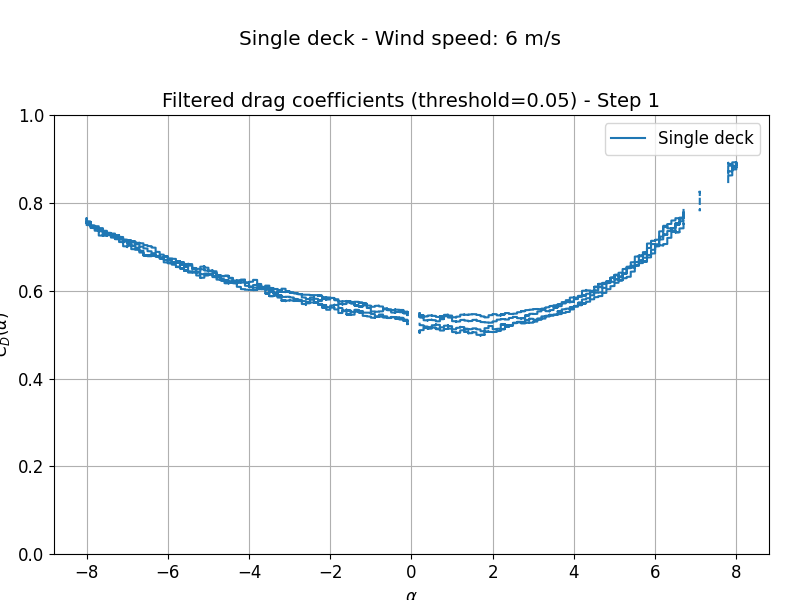
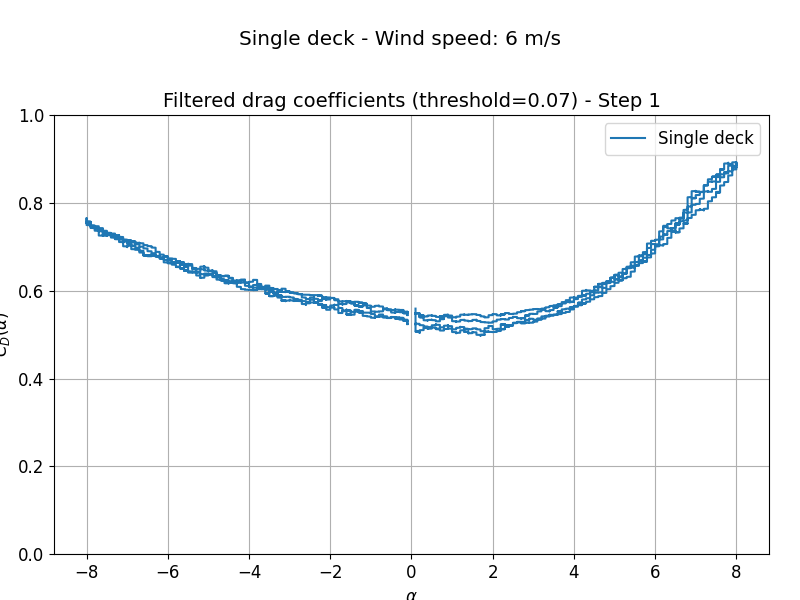
debugge

diff --git a/w3tp/w3t/_scoff.py b/w3tp/w3t/_scoff.py
@@ -1535,7 +1535,13 @@ def filter_by_reference(static_coeff_1, static_coeff_2, static_coeff_3=None, thr
         alpha = np.round(static_coeff.pitch_motion * 360 / (2 * np.pi), 1)
         return alpha, static_coeff.drag_coeff.copy(), static_coeff.lift_coeff.copy(), static_coeff.pitch_coeff.copy()
     
-    def remove_after_jump(alpha_vals, coeff_array, threshold_jump=0.1):
+    def remove_after_jump(alpha_vals, coeff_array, threshold_jump=0.1, cols=(0, 1)):
+        """
+        Fjerner alle verdier i coeff_array for alpha større enn cutoff
+        dersom det oppstår et vertikalt hopp i gjennomsnittsverdiene.
+        
+        cols: hvilke kolonner som skal brukes (0,1) for upwind og (2,3) for downwind
+        """
         alpha_vals_rounded = np.round(alpha_vals, 1)
         unique_alpha = np.sort(np.unique(alpha_vals_rounded))
 
@@ -1544,30 +1550,32 @@ def filter_by_reference(static_coeff_1, static_coeff_2, static_coeff_3=None, thr
             if len(idx) == 0:
                 continue
 
-            current_vals = coeff_array[idx, 0] + coeff_array[idx, 1]
+            current_vals = coeff_array[idx, cols[0]] + coeff_array[idx, cols[1]]
             current_mean = np.nanmean(current_vals)
             if np.isnan(current_mean):
                 continue
 
+            # Finn forrige gyldige mean (ikke NaN)
             p = 1
             while i - p >= 0:
                 prev_idx = np.where(alpha_vals_rounded == unique_alpha[i - p])[0]
                 if len(prev_idx) == 0:
                     p += 1
                     continue
-                prev_vals = coeff_array[prev_idx, 0] + coeff_array[prev_idx, 1]
+                prev_vals = coeff_array[prev_idx, cols[0]] + coeff_array[prev_idx, cols[1]]
                 prev_mean = np.nanmean(prev_vals)
                 if not np.isnan(prev_mean):
                     break
                 p += 1
             else:
-                continue
+                continue  # Fant ingen gyldig forrige verdi
 
+            # Hvis hopp, sett alt etter til NaN
             if np.abs(current_mean - prev_mean) > threshold_jump:
-                cutoff = alpha
-                coeff_array[alpha_vals_rounded > cutoff, 0] = np.nan
-                coeff_array[alpha_vals_rounded > cutoff, 1] = np.nan
-                break
+                mask = alpha_vals_rounded > alpha
+                coeff_array[mask, cols[0]] = np.nan
+                coeff_array[mask, cols[1]] = np.nan
+                break  # Bare første hopp
 
         return coeff_array
     
@@ -1720,18 +1728,13 @@ def filter_by_reference(static_coeff_1, static_coeff_2, static_coeff_3=None, thr
                     coeff_array[idx[mask], 2] = np.nan
                     coeff_array[idx[mask], 3] = np.nan
     
-    # Remove after jump logic for both upwind and downwind
+    # Fjern etter hopp i graf (upwind)
     for i, alpha in enumerate([alpha_1, alpha_2] if single else [alpha_1, alpha_2, alpha_3]):
         for coeff_array in ([coeffs_1_filt[i], coeffs_2_filt[i]] if single else [coeffs_1_filt[i], coeffs_2_filt[i], coeffs_3_filt[i]]):
-            remove_after_jump(alpha, coeff_array)  # Upwind deck
+            remove_after_jump(alpha, coeff_array, threshold_jump=0.1, cols=(0, 1))  # upwind
             if not single:
-                # Downwind deck (col 2 and 3)
-                dummy_array = np.zeros_like(coeff_array)
-                dummy_array[:, 0] = coeff_array[:, 2]
-                dummy_array[:, 1] = coeff_array[:, 3]
-                remove_after_jump(alpha, dummy_array)
-                coeff_array[:, 2] = dummy_array[:, 0]
-                coeff_array[:, 3] = dummy_array[:, 1]      
+                remove_after_jump(alpha, coeff_array, threshold_jump=0.1, cols=(2, 3))  # downwind
+    
     
     # Return updated objects
     static_coeff_1_f = copy.deepcopy(static_coeff_1)

diff --git a/HAR_INT/static_coeff.py b/HAR_INT/static_coeff.py
@@ -143,8 +143,8 @@ plot_static_coeff_summary(static_coeff_single_9, section_name, 9, mode="single",
 
 #%% Filter and plot ALT 1
 #drag
-alpha_single, coeff_single_plot=w3t._scoff.filter(static_coeff_single_6, threshold=0.05, scoff="drag", single = True)
-w3t._scoff.plot_static_coeff_filtered_out_above_threshold(alpha_single,coeff_single_plot,coeff_down_plot=None, upwind_in_rig=True, threshold=0.05, scoff="drag")
+alpha_single, coeff_single_plot=w3t._scoff.filter(static_coeff_single_6, threshold=0.07, scoff="drag", single = True)
+w3t._scoff.plot_static_coeff_filtered_out_above_threshold(alpha_single,coeff_single_plot,coeff_down_plot=None, upwind_in_rig=True, threshold=0.07, scoff="drag")
 plt.suptitle(f"Single deck - Wind speed: 6 m/s",  y=0.95)
 plt.savefig( os.path.join(r"C:\Users\liner\Documents\Github\Masteroppgave\HAR_INT\Plots\static\without_vibration\drag", "Single_6_drag_clean.png"))
 alpha_single, coeff_single_plot=w3t._scoff.filter(static_coeff_single_9, threshold=0.05, scoff="drag", single = True)
